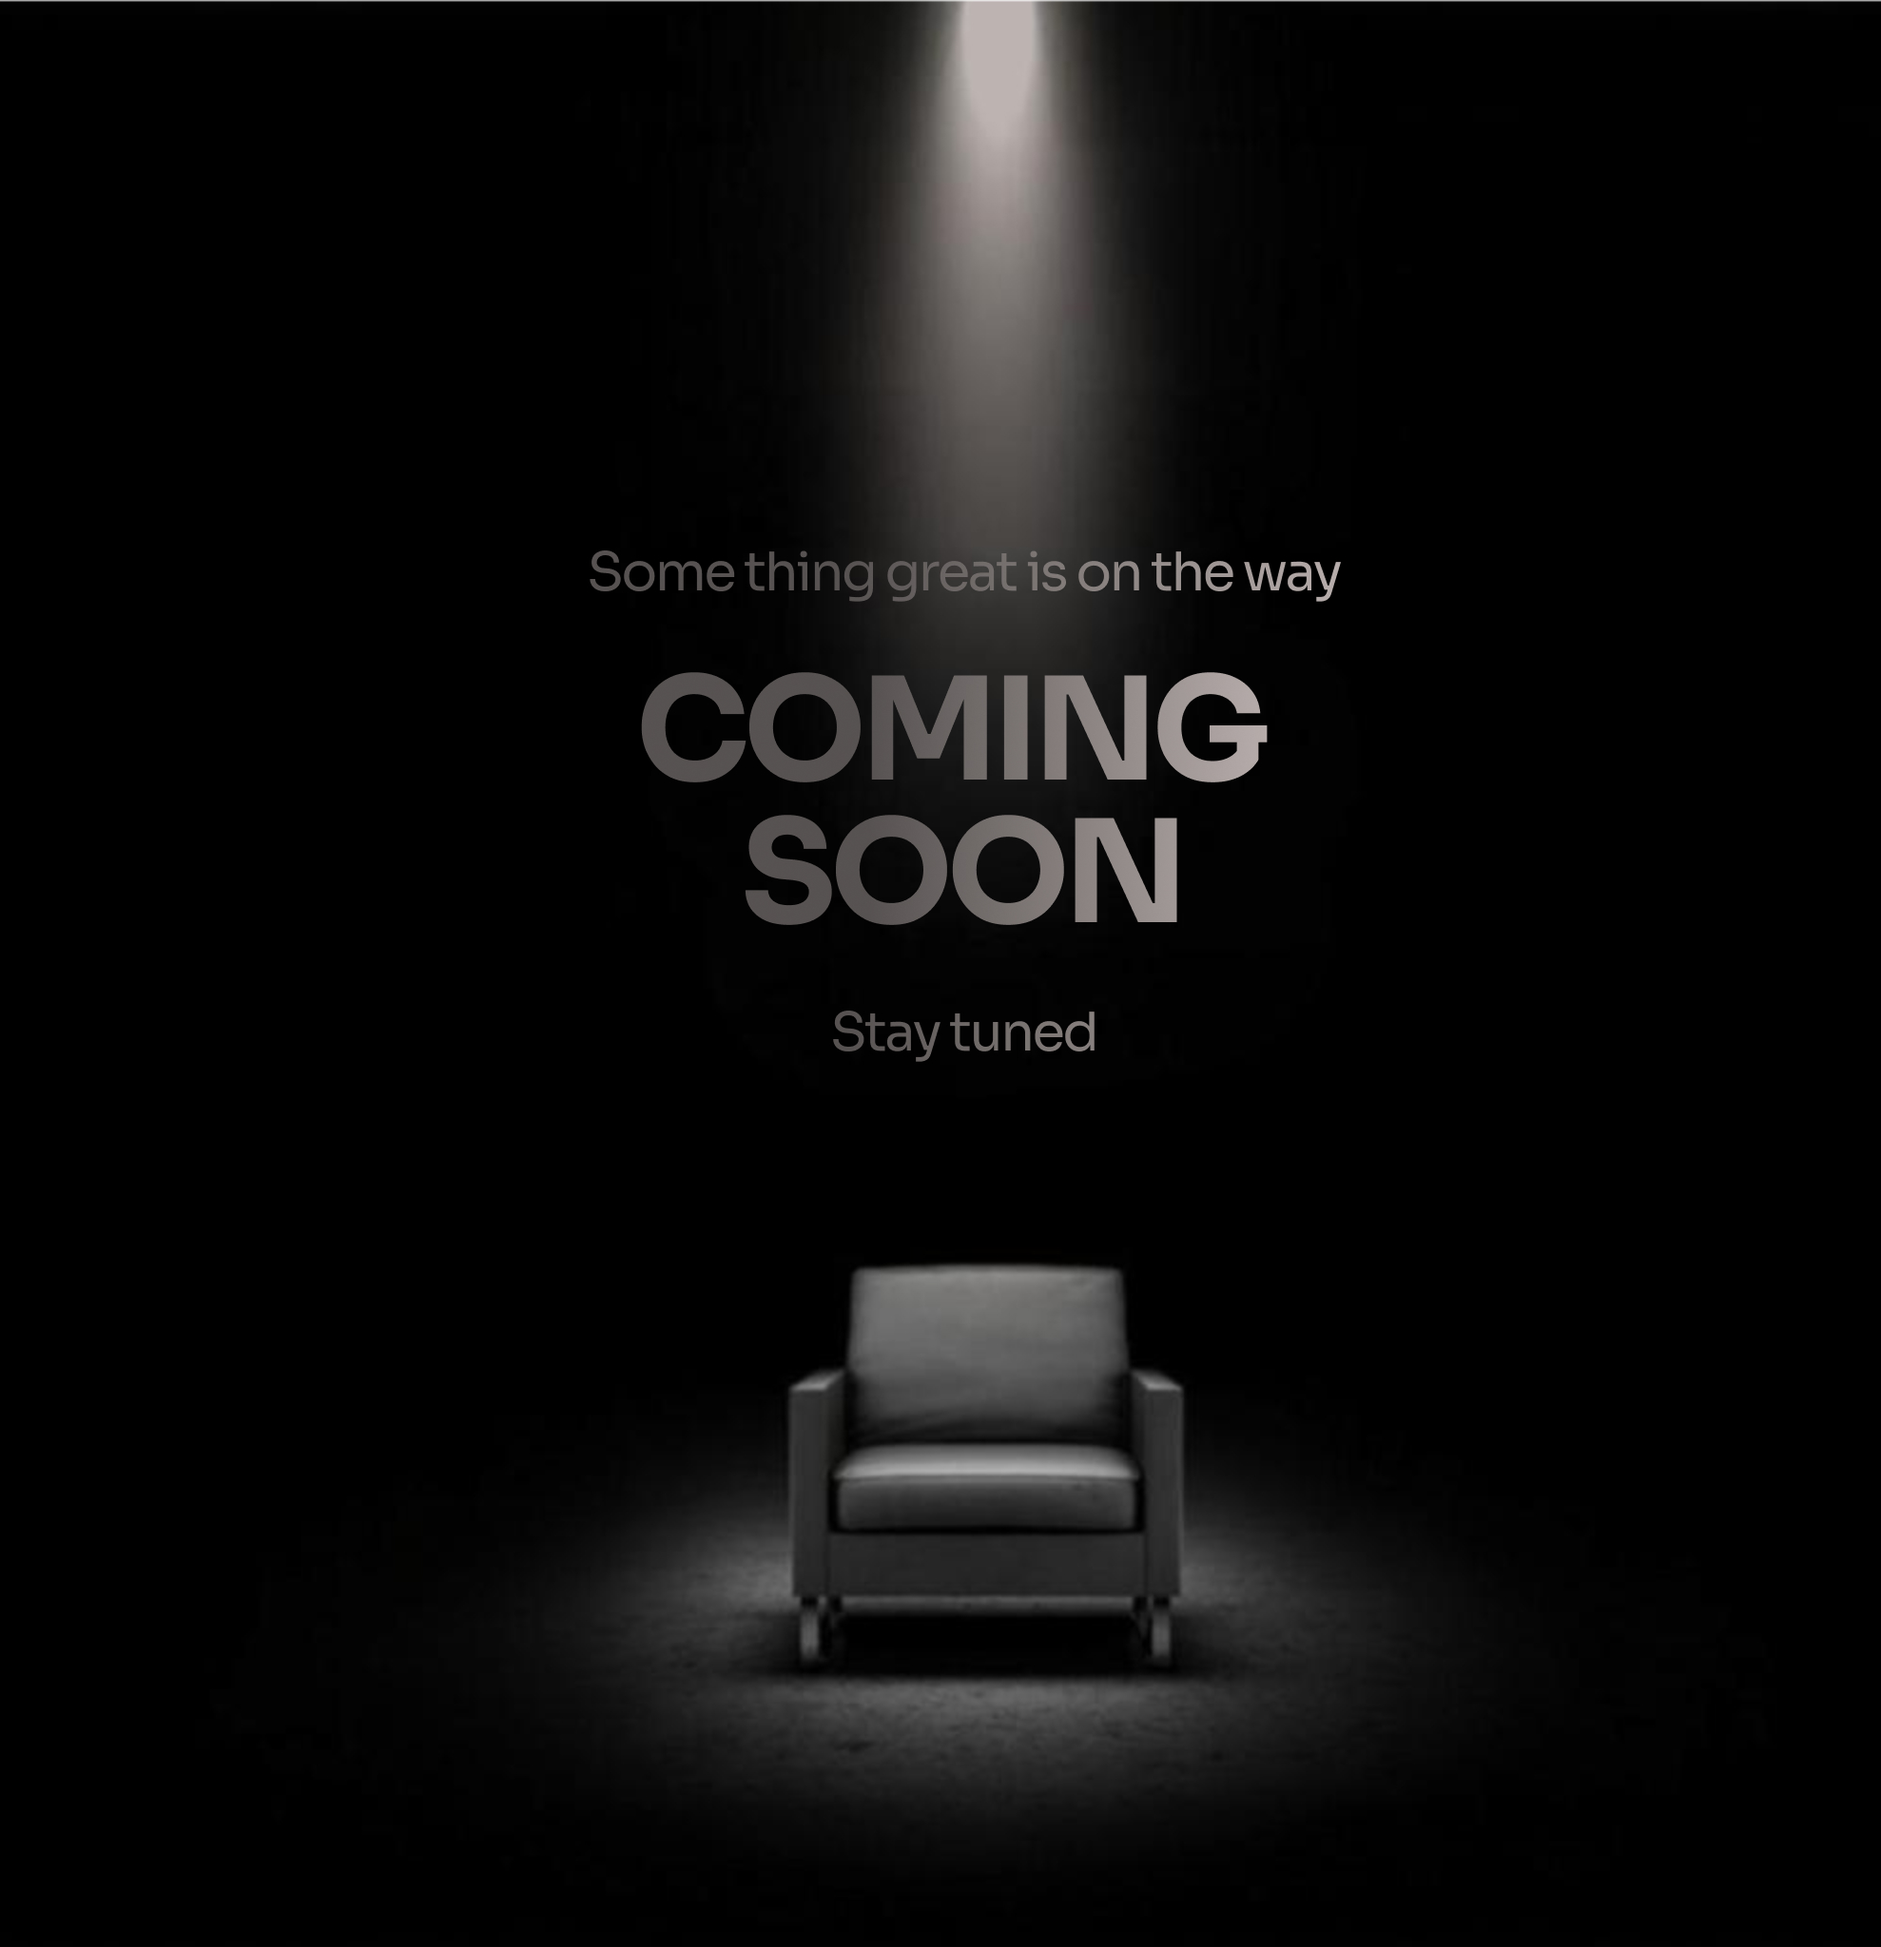
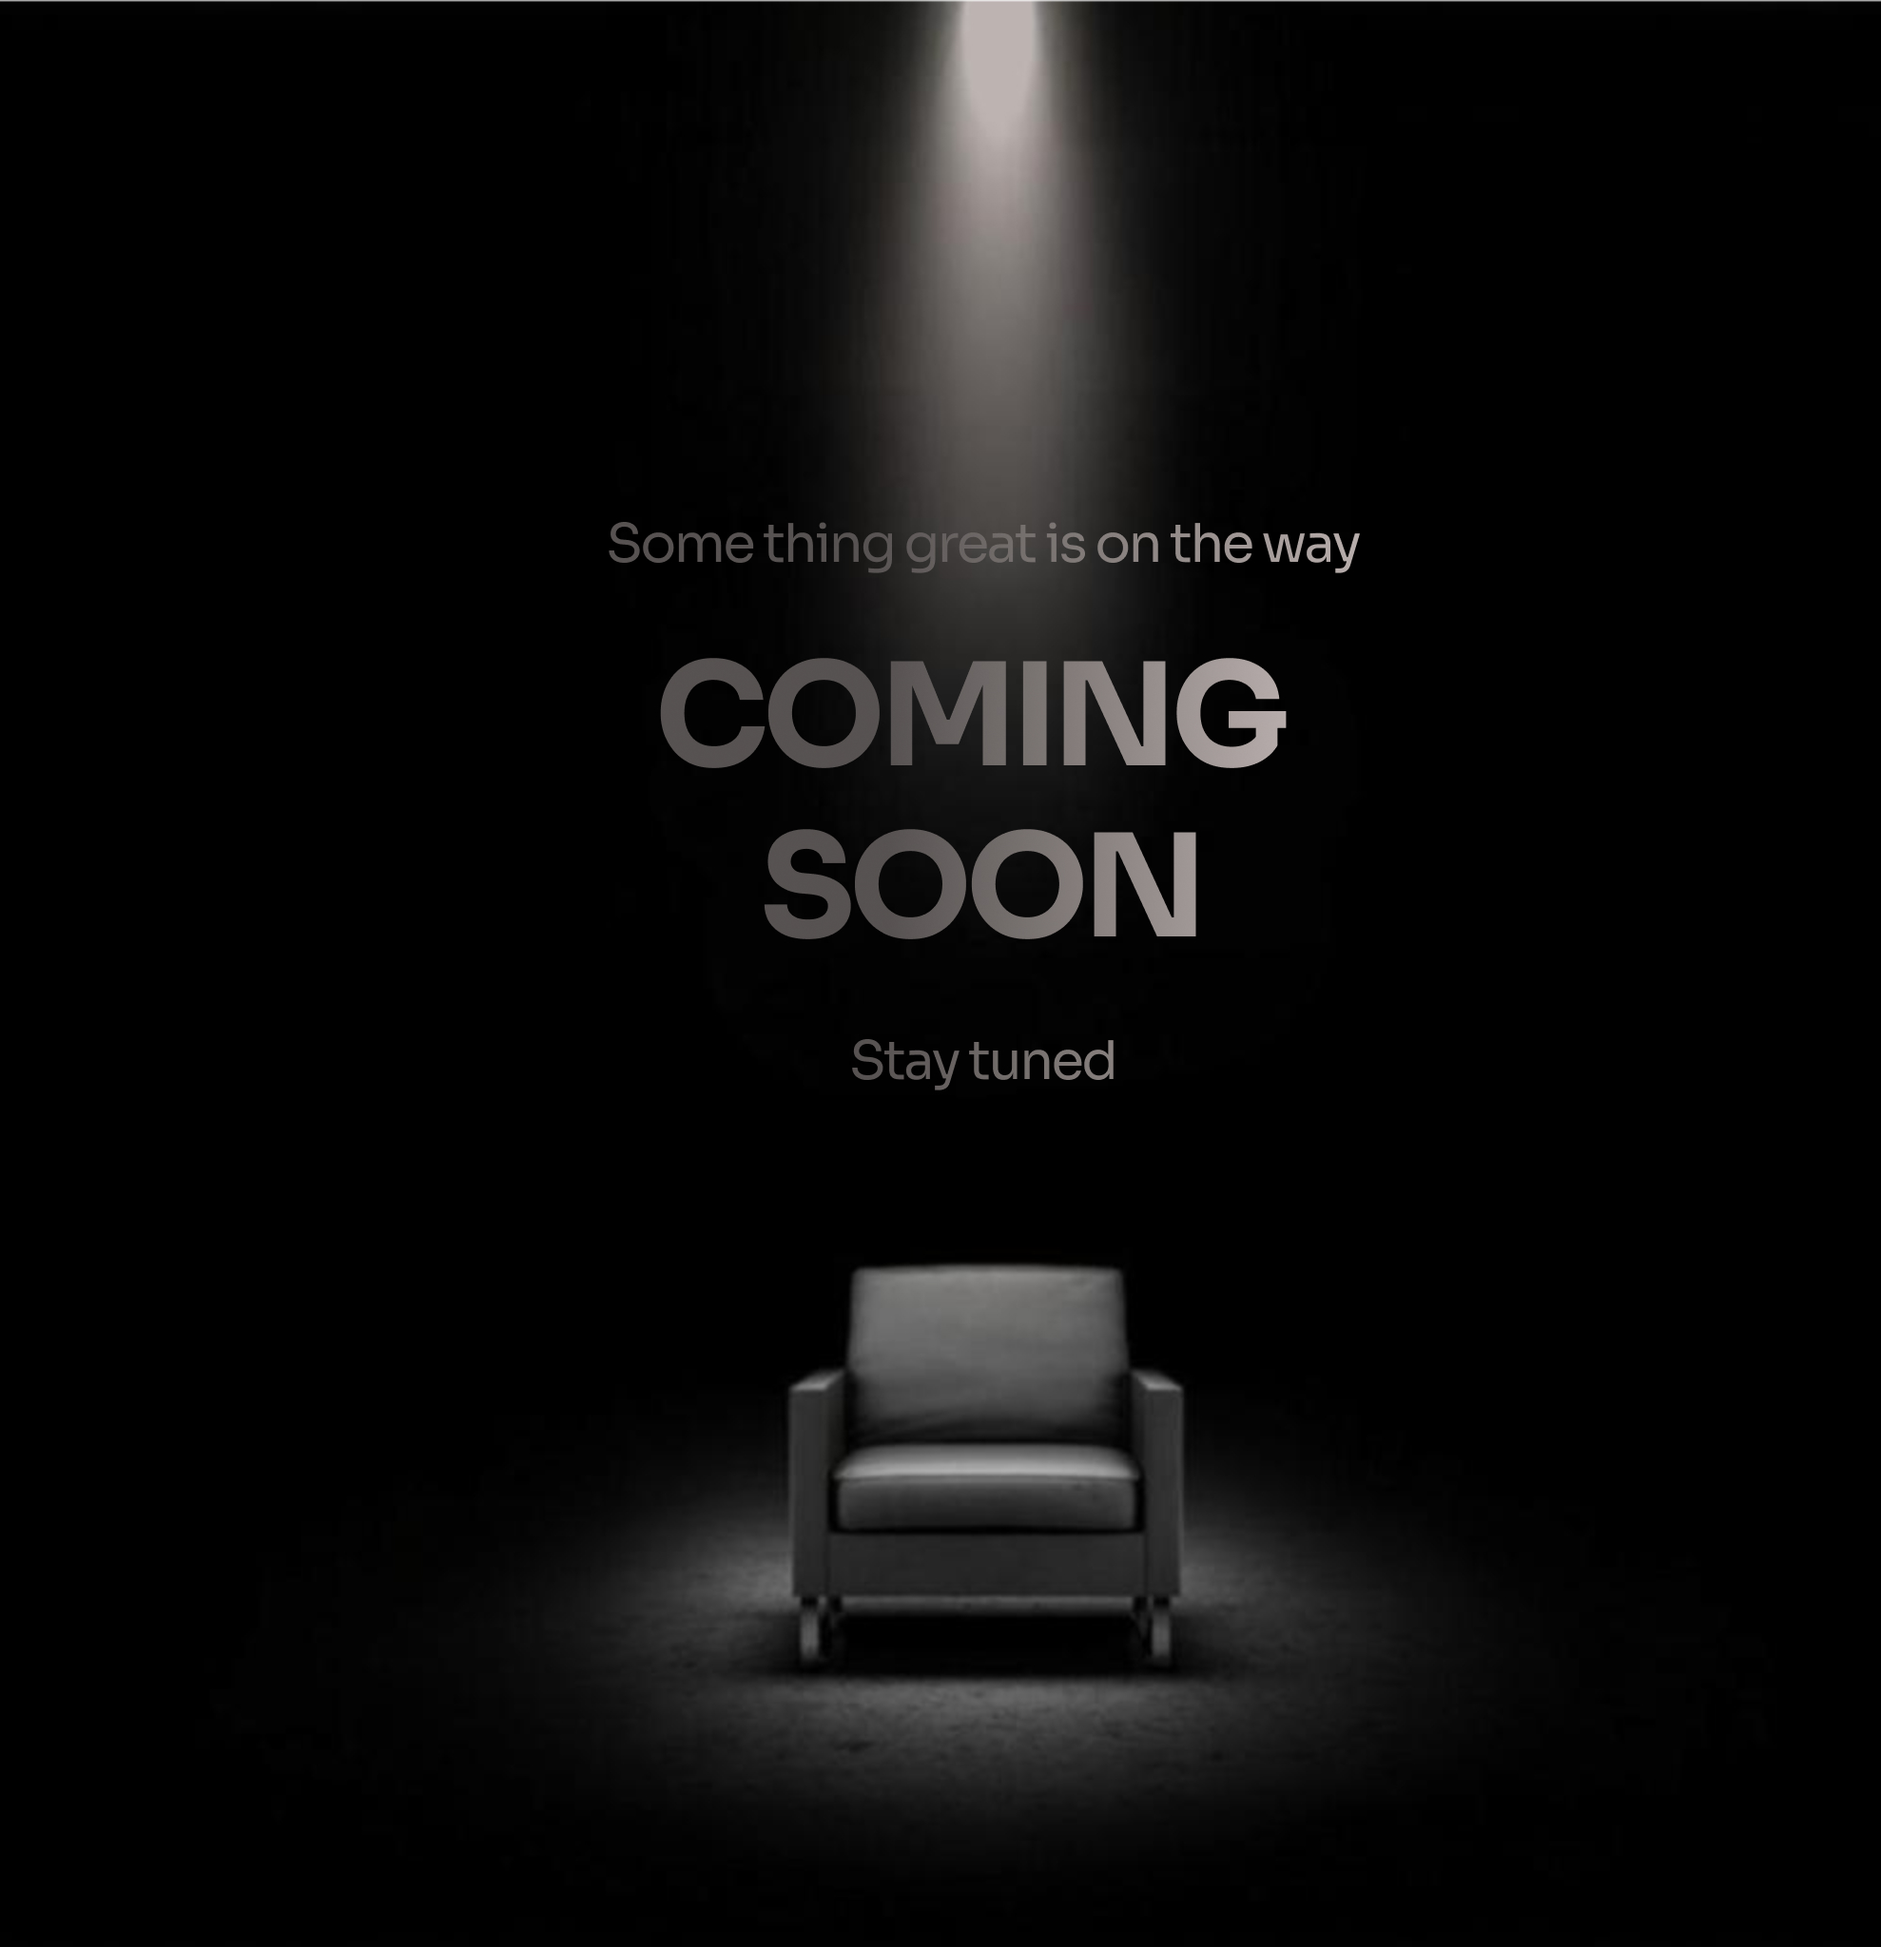
style: coming-soon-thumbnail

Changed region(s): [[0.3084, 0.25, 0.7093, 0.5625]]

diff --git a/index.htm b/index.htm
@@ -188,7 +188,7 @@
           </div>
           <div class="portfolio__item coming-soon">
             <figure class="portfolio__figure">
-              <img class="portfolio__image" src="assets/img/coming-soon.jpg" width="100%" alt="portfolio"
+              <img class="portfolio__image" src="assets/img/coming-soon-thumbnail.jpg" width="100%" alt="portfolio"
                 style="aspect-ratio: 1/1;">
             </figure>
 

diff --git a/assets/css/sections/coming-soon.css b/assets/css/sections/coming-soon.css
@@ -11,7 +11,7 @@ coming-soon {
 }
 
 .page--about coming-soon {
+  background-image: url(../../img/coming-soon-thumbnail.jpg);
   height: calc(64vh - var(--ss-space-l-xl) * 2);
-  background-position: center 100%;
-  background-size: 29%;
+  background-size: 25%;
 }

diff --git a/about.htm b/about.htm
@@ -75,7 +75,7 @@
       </div>
     </breadcrumb>
 
-    <coming-soon class="coming-soon"></coming-soon>
+    <coming-soon class="coming-soon ds-inner-px"></coming-soon>
 
     <footer class="footer ds-inner-px">
       <div class="container">
